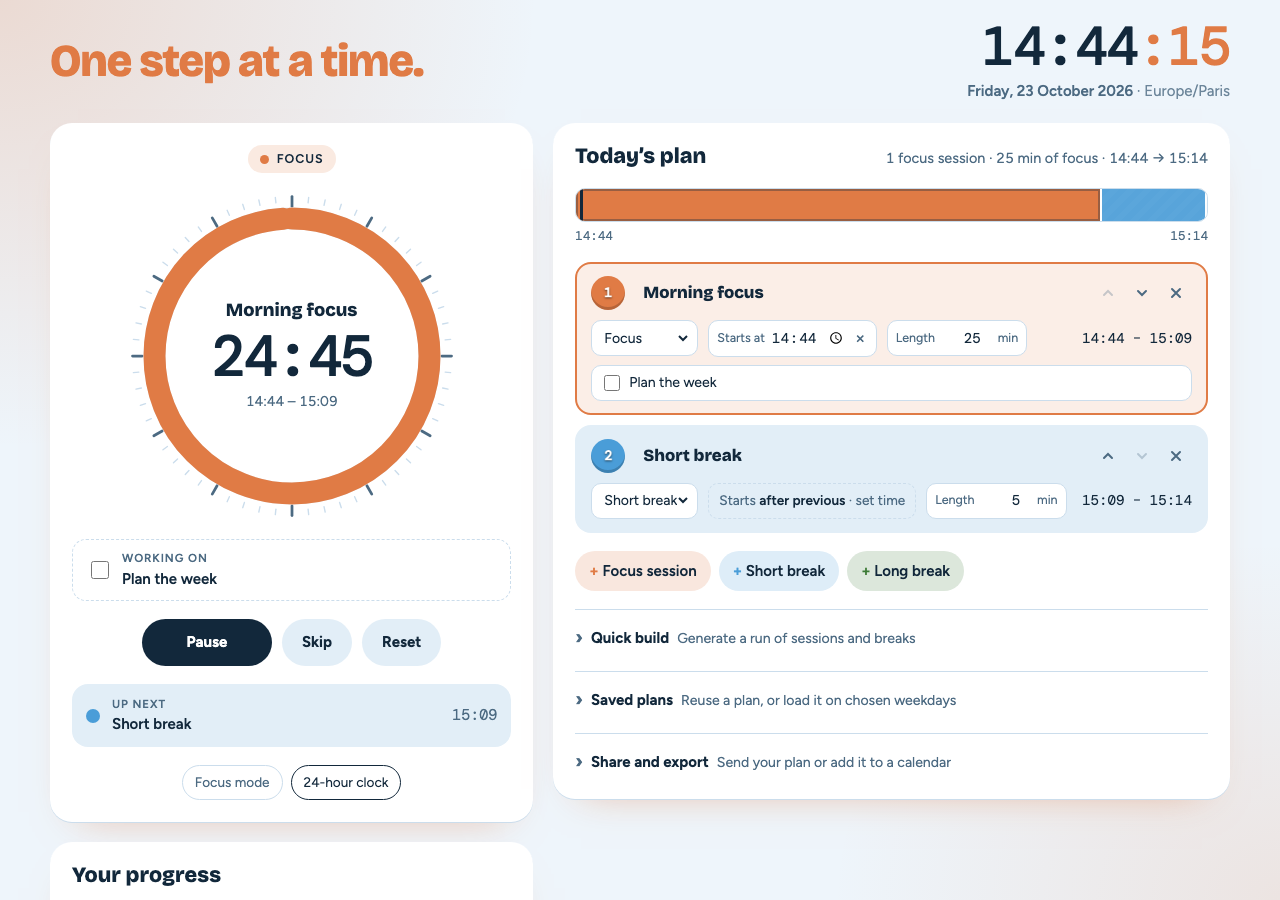
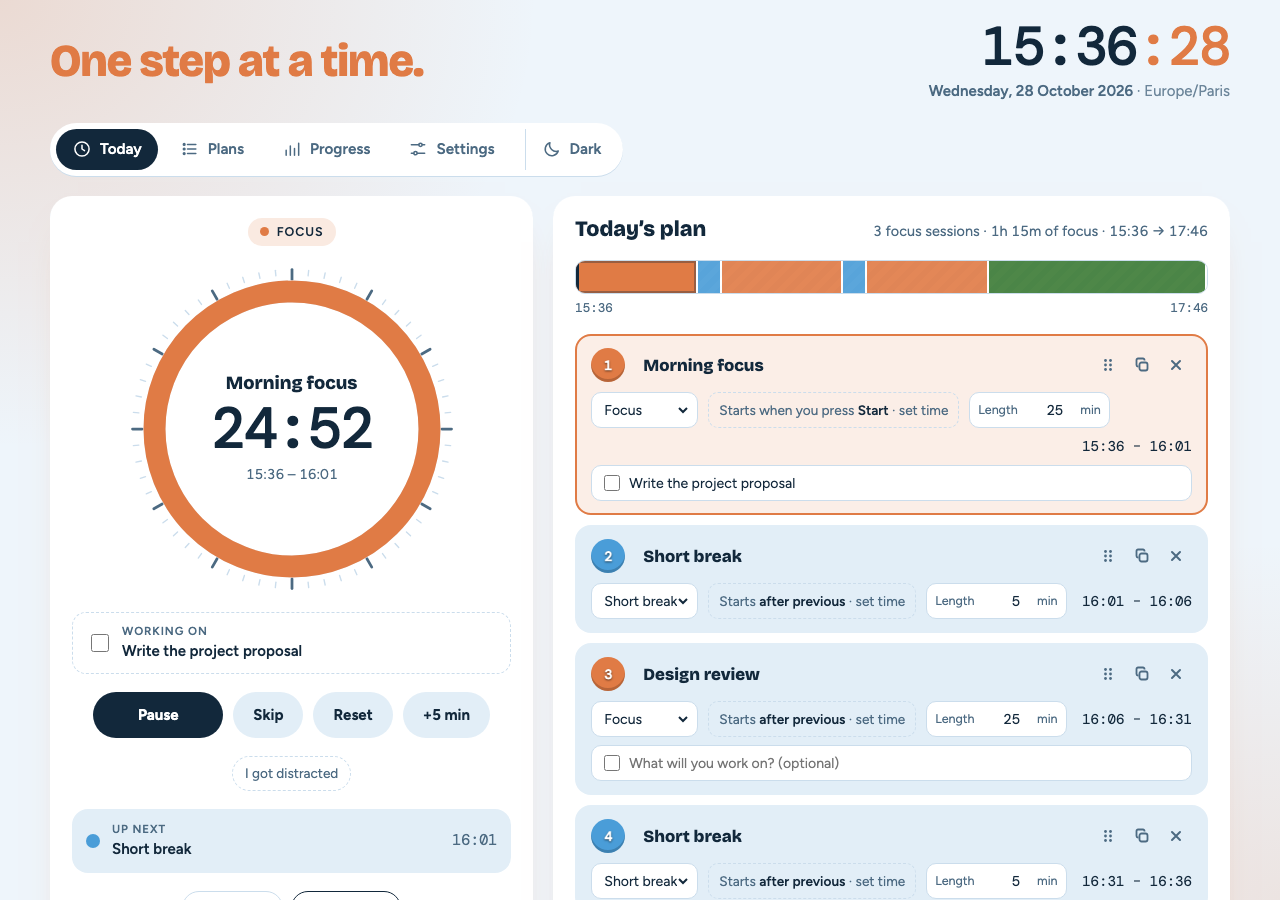
Improve search listing, link previews and add sitemap

diff --git a/index.html b/index.html
@@ -3,9 +3,35 @@
 <head>
 <meta charset="utf-8">
 <meta name="viewport" content="width=device-width, initial-scale=1, viewport-fit=cover">
-<title>Focus Timer</title>
-<meta name="description" content="A colourful pomodoro timer where every focus session and break can be pinned to a clock time.">
+<title>Focus Timer – Free Pomodoro Timer with Clock-Time Scheduling</title>
+<meta name="description" content="A free pomodoro timer that runs on the clock. Plan focus sessions and breaks, pin each one to a start time, and track your progress. Works offline, no sign-up.">
 <meta name="google-site-verification" content="asvqkutS27MxS55O7OwO5rnuhmMeeXiVfsnDM06m6nA" />
+<link rel="canonical" href="https://dayolabi.github.io/Timer/">
+<meta property="og:type" content="website">
+<meta property="og:site_name" content="Focus Timer">
+<meta property="og:title" content="Focus Timer – Free Pomodoro Timer with Clock-Time Scheduling">
+<meta property="og:description" content="Plan focus sessions and breaks, pin each one to a clock time, and track your progress. Free, works offline, no sign-up.">
+<meta property="og:url" content="https://dayolabi.github.io/Timer/">
+<meta property="og:image" content="https://dayolabi.github.io/Timer/og-image.png">
+<meta property="og:image:width" content="1200">
+<meta property="og:image:height" content="630">
+<meta property="og:image:alt" content="Focus Timer showing a countdown dial beside today's plan of focus sessions and breaks">
+<meta name="twitter:card" content="summary_large_image">
+<script type="application/ld+json">
+{
+  "@context": "https://schema.org",
+  "@type": "WebApplication",
+  "name": "Focus Timer",
+  "url": "https://dayolabi.github.io/Timer/",
+  "description": "A free pomodoro timer that runs on the clock. Plan focus sessions and breaks, pin each one to a start time, and track your progress.",
+  "applicationCategory": "ProductivityApplication",
+  "operatingSystem": "Any",
+  "browserRequirements": "Requires JavaScript",
+  "isAccessibleForFree": true,
+  "offers": { "@type": "Offer", "price": "0", "priceCurrency": "USD" },
+  "image": "https://dayolabi.github.io/Timer/og-image.png"
+}
+</script>
 <link rel="icon" href="favicon.svg" type="image/svg+xml">
 <link rel="icon" href="favicon.png" type="image/png" sizes="180x180">
 <link rel="apple-touch-icon" href="favicon.png">
@@ -154,6 +180,10 @@
         </section>
       </div>
       <p class="foot">Blocks with a clock time start at that time. Blocks set to “after previous” start as soon as the one before ends. Leave a length empty to run until the next pinned block. Drag the dotted handle to reorder. Shortcuts: Space starts and pauses, F toggles focus mode.</p>
+      <section class="about" aria-labelledby="hAbout">
+        <h2 id="hAbout">About Focus Timer</h2>
+        <p>Focus Timer is a free pomodoro timer that follows the clock. Build a day of focus sessions and short and long breaks, pin any of them to a start time such as lunch at 13:00, and the timer moves through your plan on its own. It shows the date and time to the second, keeps track of your sessions and streaks, and works offline once installed. There’s no sign-up, and your plans stay in your own browser.</p>
+      </section>
     </section>
 
     <!-- Plans: tools for building and sharing plans (Full mode) -->

diff --git a/styles.css b/styles.css
@@ -420,7 +420,7 @@ details.quick summary span { font-weight: 400; color: var(--muted); font-size: .
 @media (max-width: 560px) { .tpl { grid-template-columns: minmax(0, 1fr) auto; } .days { grid-column: 1 / -1; grid-row: 2; } }
 
 /* Focus mode */
-body.focus-mode .tabs, body.focus-mode .plan, body.focus-mode .foot, body.focus-mode #tgl24,
+body.focus-mode .tabs, body.focus-mode .plan, body.focus-mode .foot, body.focus-mode .about, body.focus-mode #tgl24,
 body.focus-mode .banner, body.focus-mode .simple-note { display: none !important; }
 body.focus-mode .view:not([data-view="today"]) { display: none !important; }
 body.focus-mode .grid { grid-template-columns: minmax(0, 1fr); }
@@ -436,6 +436,9 @@ body.focus-mode .upnext { max-width: 520px; }
 @keyframes flash { 0% { box-shadow: 0 0 0 0 color-mix(in srgb, var(--cur) 70%, transparent); } 100% { box-shadow: 0 0 0 28px transparent; } }
 .confetti { position: fixed; inset: 0; width: 100%; height: 100%; pointer-events: none; z-index: 10; }
 .foot { color: var(--muted); font-size: .82rem; text-align: center; }
+.about { max-width: 760px; margin: 0 auto; text-align: center; color: var(--muted); font-size: .88rem; }
+.about h2 { font: 700 .95rem var(--f-body); color: var(--ink); margin: 0 0 4px; }
+.about p { margin: 0; }
 @media (prefers-reduced-motion: reduce) { *, *::before { animation: none !important; transition: none !important; } }
 @media (max-width: 480px) { .card { padding: 16px; } .times { margin-left: 0; flex-basis: 100%; } .stat .v { font-size: 1.1rem; } .tb li:not(.empty) { grid-template-columns: minmax(0, 6.5rem) minmax(0, 1fr) auto; } }
 

diff --git a/app.js b/app.js
@@ -68,6 +68,7 @@
   const AMB_NAME = { rain: 'rain', ocean: 'ocean waves', brown: 'brown noise', white: 'white noise' };
   const monthFmt = new Intl.DateTimeFormat(undefined, { month: 'long', year: 'numeric' });
   const ambBufs = {};
+  const PAGE_TITLE = document.title;
   const iconLinks = [...document.querySelectorAll('link[rel="icon"]')];
   const iconOrig = iconLinks.map((l) => [l.getAttribute('href'), l.getAttribute('type')]);
   const iconCanvas = document.createElement('canvas');
@@ -1031,7 +1032,7 @@
     $('btnStop').disabled = !run;
     $('tgl24').setAttribute('aria-pressed', String(state.h24));
     $('tgl24').textContent = state.h24 ? '24-hour clock' : '12-hour clock';
-    document.title = run && st.mode !== 'done' ? `${cd} · ${label}` : 'Focus Timer';
+    document.title = run && st.mode !== 'done' ? `${cd} · ${label}` : PAGE_TITLE;
     updateIcon(!!run && (st.mode === 'block' || st.mode === 'wait' || st.mode === 'gap'), color, dashed ? 0 : frac, rem, paused);
     cheerMood(st.mode === 'block' ? tl[st.i].b.kind : st.mode);
   }

diff --git a/sw.js b/sw.js
@@ -1,6 +1,6 @@
 // Offline support. Page files are fetched from the network first so updates
 // show up straight away, with the cached copy used when offline.
-const CACHE = 'focus-timer-v5';
+const CACHE = 'focus-timer-v6';
 const SHELL = [
   './', 'index.html', 'styles.css', 'app.js', 'manifest.webmanifest',
   'favicon.svg', 'favicon.png', 'icon-192.png', 'icon-512.png', 'icon-maskable-512.png',

diff --git a/README.md b/README.md
@@ -115,6 +115,8 @@ A focus session counts as completed once you've spent at least half of its plann
 | `favicon.svg`, `favicon.png` | Clock icon for the browser tab and iPhone home screen |
 | `icon-192.png`, `icon-512.png`, `icon-maskable-512.png` | App icons for Android, Chrome and Edge |
 | `screenshot.png` | Image used in this README |
+| `og-image.png` | Preview image shown when the link is shared |
+| `sitemap.xml` | Page list for Google Search Console |
 
 ## Browser notes
 
